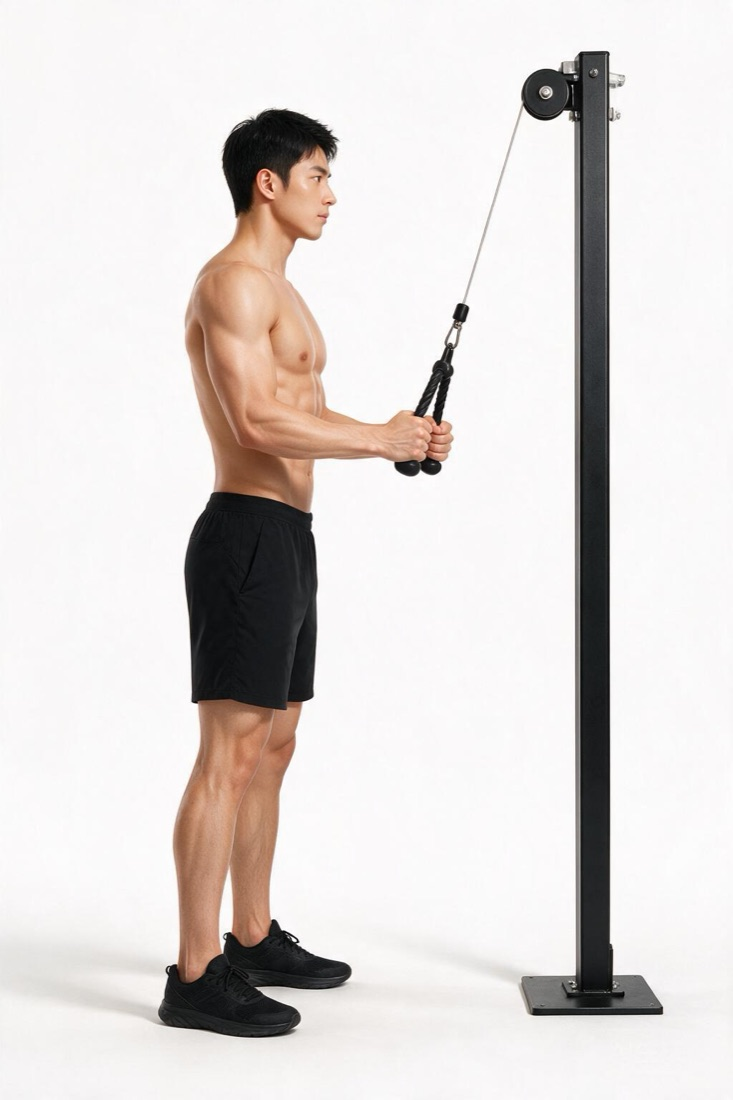
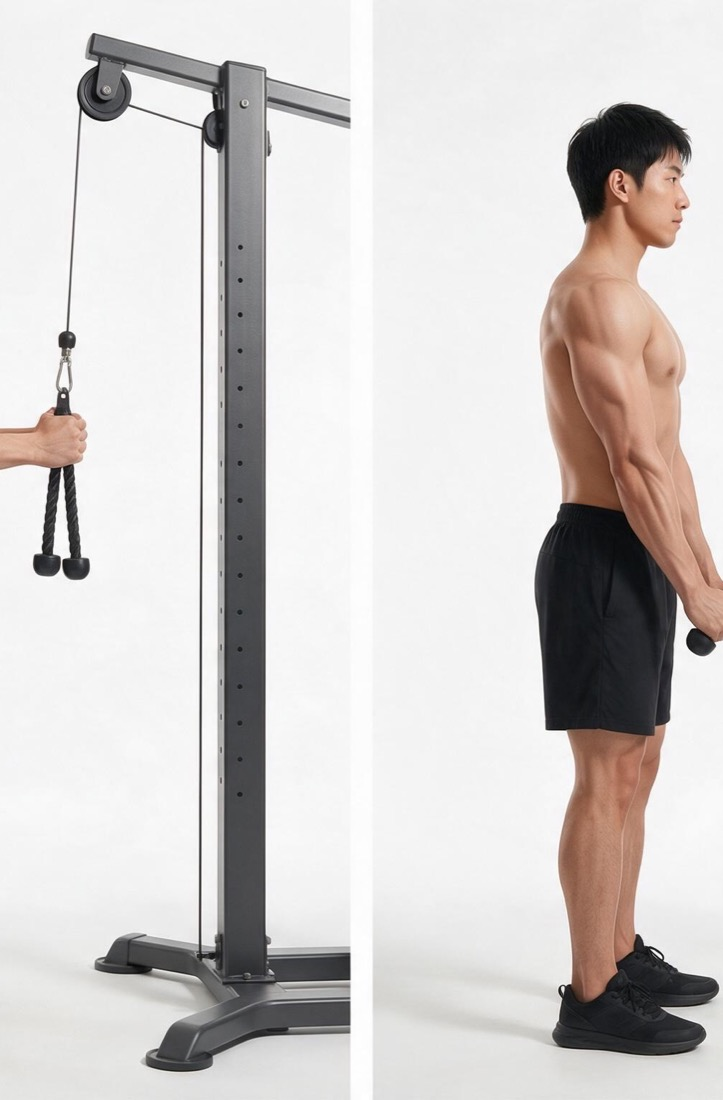
绳索下压示范图按真人示范重画：面向器械、滑轮在手上方、两张同一台器械

diff --git a/index.html b/index.html
@@ -4,8 +4,8 @@
 <meta charset="UTF-8" />
 <meta name="viewport" content="width=device-width, initial-scale=1" />
 <title>肌理 · 健身写作助手</title>
-<link rel="stylesheet" href="styles.css?v=20261030i" />
-<link rel="stylesheet" href="styles-addon.css?v=20261030i" />
+<link rel="stylesheet" href="styles.css?v=20261030j" />
+<link rel="stylesheet" href="styles-addon.css?v=20261030j" />
 </head>
 <body>
 <header class="top">
@@ -164,23 +164,23 @@
 </main>
 
 <script src="https://cdn.jsdelivr.net/npm/html2canvas@1.4.1/dist/html2canvas.min.js"></script>
-<script src="library.js?v=20261030i"></script>
-<script src="details.js?v=20261030i"></script>
-<script src="regions.js?v=20261030i"></script>
-<script src="body-shapes.js?v=20261030i"></script>
-<script src="muscle-map.js?v=20261030i"></script>
-<script src="move-meta.js?v=20261030i"></script>
-<script src="pose-engine.js?v=20261030i"></script>
-<script src="pose-lib.js?v=20261030i"></script>
-<script src="custom-moves.js?v=20261030i"></script>
-<script src="copy-data.js?v=20261030i"></script>
-<script src="copy.js?v=20261030i"></script>
-<script src="copy-douyin.js?v=20261030i"></script>
-<script src="app.js?v=20261030i"></script>
-<script src="writer.js?v=20261030i"></script>
-<script src="ai-images.js?v=20261030i"></script>
-<script src="poster.js?v=20261030i"></script>
-<script src="search.js?v=20261030i"></script>
-<script src="diet.js?v=20261030i"></script>
+<script src="library.js?v=20261030j"></script>
+<script src="details.js?v=20261030j"></script>
+<script src="regions.js?v=20261030j"></script>
+<script src="body-shapes.js?v=20261030j"></script>
+<script src="muscle-map.js?v=20261030j"></script>
+<script src="move-meta.js?v=20261030j"></script>
+<script src="pose-engine.js?v=20261030j"></script>
+<script src="pose-lib.js?v=20261030j"></script>
+<script src="custom-moves.js?v=20261030j"></script>
+<script src="copy-data.js?v=20261030j"></script>
+<script src="copy.js?v=20261030j"></script>
+<script src="copy-douyin.js?v=20261030j"></script>
+<script src="app.js?v=20261030j"></script>
+<script src="writer.js?v=20261030j"></script>
+<script src="ai-images.js?v=20261030j"></script>
+<script src="poster.js?v=20261030j"></script>
+<script src="search.js?v=20261030j"></script>
+<script src="diet.js?v=20261030j"></script>
 </body>
 </html>

diff --git a/ai-images.js b/ai-images.js
@@ -18,5 +18,5 @@ const AI_READY = ["绳索下压"];
 function aiPhotos(moveName) {
   const f = AI_IMG[moveName];
   if (!f || !AI_READY.includes(moveName)) return null;
-  return [`ai-img/${f}-a.jpg`, `ai-img/${f}-b.jpg`];
+  return [`ai-img/${f}-a.jpg?v=2`, `ai-img/${f}-b.jpg?v=2`];
 }

diff --git a/tools/gen_images.py b/tools/gen_images.py
@@ -1,47 +1,57 @@
 """生成讲解卡的 AI 示范图。密钥从环境变量 OPENAI_API_KEY / OPENAI_BASE_URL 读取，不写进代码。
 
-用法：python3 tools/gen_images.py pushdown            # 生成起始图，再以起始图为参考生成完成图
-      python3 tools/gen_images.py pushdown --model doubao-seedream-5-0-pro
+做法：以 free-exercise-db 的真人示范照片为参考图，保留动作姿势和器械结构，
+把人物和背景重画成统一画风（白背景、亚洲男性、光上身、黑短裤）。
+完成图同时参考真人完成照片和刚生成的起始图，保证是同一个人、同一台器械。
+
+用法：python3 tools/gen_images.py pushdown [--model doubao-seedream-5-0-pro]
 """
 import base64, json, os, sys, urllib.request, uuid
 
 KEY = os.environ["OPENAI_API_KEY"]
 BASE = os.environ.get("OPENAI_BASE_URL", "https://api.openai.com/v1").rstrip("/")
-OUT = os.path.join(os.path.dirname(__file__), "..", "ai-img")
+ROOT = os.path.join(os.path.dirname(os.path.abspath(__file__)), "..")
+OUT = os.path.join(ROOT, "ai-img")
+REF_BASE = "https://cdn.jsdelivr.net/gh/yuhonas/free-exercise-db@main/exercises/"
+PROXY = os.environ.get("REF_PROXY", "http://127.0.0.1:7897")
 
-STYLE = ("Realistic fitness instruction illustration, high-detail semi-realistic CG digital painting (not a photo). "
-         "Pure white background with only a faint soft floor shadow. One 25-year-old East Asian man, short black hair, "
-         "clear handsome features, focused expression, shirtless, low body fat, well-defined but natural athletic muscles "
-         "(not a bodybuilder), black athletic shorts, black sneakers. Entire body in frame, hands and feet not cropped. "
-         "Soft studio lighting, accurate gym equipment. No text, no watermark, no logo, no other people.")
+STYLE = ("Semi-realistic fitness instruction illustration, high-detail CG digital painting (not a photo). "
+         "Pure white seamless studio background, only a faint soft floor shadow, no gym clutter and no other people. "
+         "One 25-year-old East Asian man, short black hair, clear handsome features, focused expression, shirtless, "
+         "low body fat, well-defined but natural athletic muscles (not a bodybuilder), black athletic shorts, black sneakers. "
+         "Entire body and the full machine in frame, nothing cropped. Soft studio lighting. No text, no watermark, no logo.")
 
 MOVES = {
     "pushdown": {
-        "size": "1024x1536",
-        "a": ("Strict side profile view, the man faces right. A cable pulley is mounted high on a tall black post that stands IN FRONT of him, "
-              "about one step ahead of his body, at the right side of the image. The steel cable runs straight down vertically from the pulley "
-              "to a double-ended black rope attachment just in front of his chest. Starting position of a triceps rope pushdown: "
-              "both upper arms hang vertically and are pinned tightly against the sides of his torso, elbows bent at 90 degrees right beside his ribs, "
-              "forearms horizontal pointing forward, fists holding the rope ends at lower-chest height. Torso upright, slight forward lean, "
-              "feet hip-width apart. The cable never passes near his face."),
-        "b": ("Edit the reference image: keep the same man, same face, same outfit, same tall black post with the high pulley on the right side, "
-              "same strict side profile view facing right, same background. Change only his arms to the finish position of a triceps rope pushdown: "
-              "BOTH hands still firmly grip the two rope ends together, the cable stays attached and is taut, running straight from the high pulley down to his hands. "
-              "Upper arms stay vertical and pinned against his sides, elbows fully straightened, forearms pointing straight down, "
-              "both fists right in front of his upper thighs, rope ends pulled slightly apart, triceps clearly contracted."),
+        "ref": "Triceps_Pushdown_-_Rope_Attachment",
+        "machine": ("In each panel: the man stands on the left facing right toward a clean dark-grey cable tower on the right, very close, half a step away. "
+                    "A short arm at the top of the tower sticks out toward him, so the pulley is high above his head and EXACTLY above his hands; "
+                    "the cable drops PERFECTLY VERTICALLY (a straight plumb line, not slanted) from the pulley down to a black braided triceps rope "
+                    "with ball ends; he holds one rope strand in each hand."),
+        "a": ("Start of a triceps rope pushdown: upper arms pinned vertically to his sides, elbows bent 90 degrees, forearms horizontal, "
+              "both fists holding the rope at lower-chest height."),
+        "b": ("Finish: upper arms still pinned to his sides, elbows fully straightened, arms pointing straight down, BOTH fists still holding the rope, "
+              "one strand in each hand, fists in front of his upper thighs, rope ends spread slightly apart, cable still perfectly vertical, triceps contracted."),
     },
 }
 
 
-def post(path, payload=None, files=None):
+def fetch_ref(ref_id, i):
+    path = f"/tmp/ref-{ref_id}-{i}.jpg"
+    if not os.path.exists(path):
+        opener = urllib.request.build_opener(urllib.request.ProxyHandler({"https": PROXY, "http": PROXY}))
+        with open(path, "wb") as f:
+            f.write(opener.open(f"{REF_BASE}{ref_id}/{i}.jpg", timeout=60).read())
+    return open(path, "rb").read()
+
+
+def post(path, payload, images=None):
     url = f"{BASE}{path}"
-    if files:
+    if images:
         bd = uuid.uuid4().hex
-        parts = []
-        for k, v in payload.items():
-            parts.append(f'--{bd}\r\nContent-Disposition: form-data; name="{k}"\r\n\r\n{v}\r\n'.encode())
-        for k, (name, data) in files.items():
-            parts.append(f'--{bd}\r\nContent-Disposition: form-data; name="{k}"; filename="{name}"\r\nContent-Type: image/png\r\n\r\n'.encode() + data + b"\r\n")
+        parts = [f'--{bd}\r\nContent-Disposition: form-data; name="{k}"\r\n\r\n{v}\r\n'.encode() for k, v in payload.items()]
+        for idx, data in enumerate(images):
+            parts.append(f'--{bd}\r\nContent-Disposition: form-data; name="image"; filename="ref{idx}.jpg"\r\nContent-Type: image/jpeg\r\n\r\n'.encode() + data + b"\r\n")
         parts.append(f"--{bd}--\r\n".encode())
         body, ctype = b"".join(parts), f"multipart/form-data; boundary={bd}"
     else:
@@ -56,30 +66,36 @@ def post(path, payload=None, files=None):
 
 def save(resp, path):
     item = resp["data"][0]
-    if item.get("b64_json"):
-        data = base64.b64decode(item["b64_json"])
-    else:
-        data = urllib.request.urlopen(item["url"], timeout=120).read()
+    data = base64.b64decode(item["b64_json"]) if item.get("b64_json") else urllib.request.urlopen(item["url"], timeout=120).read()
     with open(path, "wb") as f:
         f.write(data)
-    return data
+
+
+def arg(flag, default):
+    return sys.argv[sys.argv.index(flag) + 1] if flag in sys.argv else default
 
 
 def main():
+    """一次生成左右双拼图（左起始、右完成），再从中间切开，保证两张是同一个人、同一台器械。"""
+    import subprocess
     name = sys.argv[1]
-    model = sys.argv[sys.argv.index("--model") + 1] if "--model" in sys.argv else "gpt-image-2"
-    only = sys.argv[sys.argv.index("--only") + 1] if "--only" in sys.argv else "ab"
+    model = arg("--model", "doubao-seedream-5-0-pro")
     m = MOVES[name]
     os.makedirs(OUT, exist_ok=True)
-    pa, pb = os.path.join(OUT, f"{name}-a.png"), os.path.join(OUT, f"{name}-b.png")
-    if "a" in only:
-        save(post("/images/generations", {"model": model, "prompt": f"{STYLE} {m['a']}", "size": m["size"], "n": 1}), pa)
-        print("起始图", pa)
-    if "b" in only:
-        ref = open(pa, "rb").read()
-        prompt = f"{STYLE} Keep exactly the same man, face, body, outfit, lighting and camera angle as the reference image. {m['b']}"
-        save(post("/images/edits", {"model": model, "prompt": prompt, "size": m["size"], "n": 1}, {"image": ("ref.png", ref)}), pb)
-        print("完成图", pb)
+    prompt = ("Use the reference photo only for the exercise pose and how close he stands to the machine. " + STYLE +
+              " A two-panel instructional image split exactly down the middle into a LEFT panel and a RIGHT panel of equal width, "
+              "separated by a thin empty white gap. Both panels show the SAME man and the SAME identical equipment from the SAME camera angle, "
+              "same scale, same positions; only the movement phase differs. " + m["machine"] +
+              " LEFT panel: " + m["a"] + " RIGHT panel: " + m["b"])
+    pair = f"/tmp/{name}-pair.jpg"
+    save(post("/images/edits", {"model": model, "prompt": prompt, "size": "2048x1536", "n": 1, "watermark": "false"},
+              [fetch_ref(m["ref"], 0)]), pair)
+    for side, off in (("a", 0), ("b", 1038)):
+        out = os.path.join(OUT, f"{name}-{side}.jpg")
+        subprocess.run(["sips", "-s", "format", "jpeg", "-s", "formatOptions", "84", "-c", "1536", "1010",
+                        "--cropOffset", "0", str(off), pair, "--out", out], check=True, capture_output=True)
+        subprocess.run(["sips", "-Z", "1100", out], check=True, capture_output=True)
+        print(side, out)
 
 
 if __name__ == "__main__":
